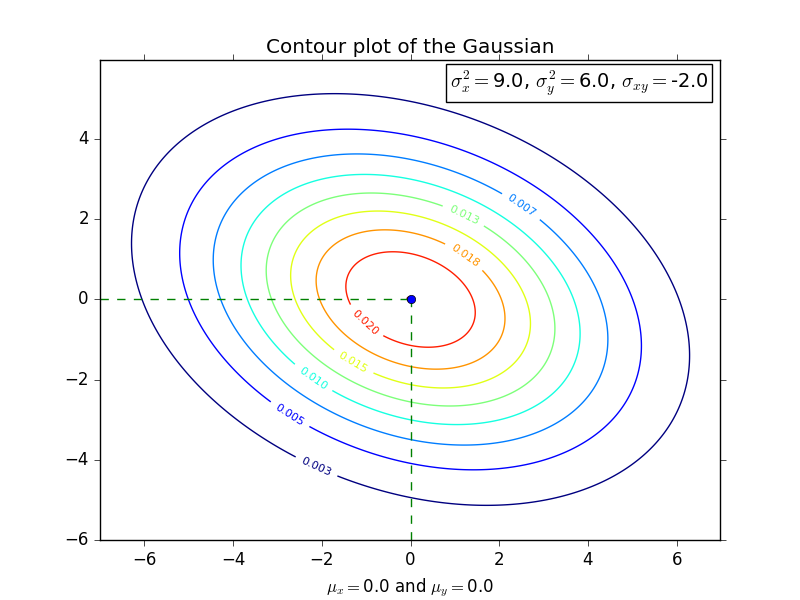
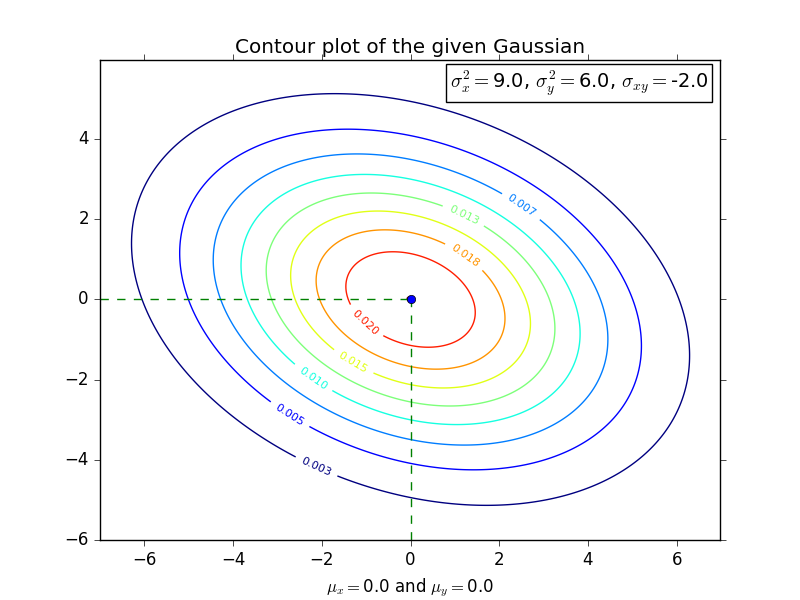
Add code for plotting z's histogram Add z's histogram Update ghist2D.png to be consistent with the data on ghist1D.png Update README

Changed region(s): [[0.2812, 0.06, 0.75, 0.09]]

diff --git a/gaussw2.py b/gaussw2.py
@@ -29,13 +29,13 @@ delta = 0.025
 x = np.arange(-7, 7, delta)
 y = np.arange(-6.0, 6.0, delta)
 #normal function takes only lists as input, so convert tuple to list
-X, Y = np.meshgrid(x, y)
-Z = mlab.bivariate_normal(X, Y, sigma_x, sigma_y, mu_x, mu_y, sigma_xy)
+X0, Y0 = np.meshgrid(x, y)
+Z0 = mlab.bivariate_normal(X0, Y0, sigma_x, sigma_y, mu_x, mu_y, sigma_xy)
 
 plt.figure(1)
 #Number of levels of a Contour
 N = 10
-cont = plt.contour(X, Y, Z, N)
+cont = plt.contour(X0, Y0, Z0, N)
 plt.clabel(cont, inline = 5, fontsize = 8)
 plt.title('Contour plot of the given Gaussian')
 plt.plot(mu_x, mu_y, 'bo')
@@ -48,19 +48,44 @@ plt.xlabel(r"$\mu_x =$"+str(mu_x)+" and "+r"$\mu_y =$"+str(mu_y))
 bbox_props1 =  dict(boxstyle = "square, pad=0.2", fc = "w", ec = 'k', lw = 1)
 plt.text(3.8, 5.4, r"$\sigma^2_x=$"+str(sigma_sqr_x)+", "+r"$\sigma^2_y =$"+str(sigma_sqr_y)+", "+r"$\sigma_{xy} =$"+str(sigma_xy), ha="center", va="center", size = 14, bbox = bbox_props1)
 
-plt.figure(2)
 #2D random number generator
-X = []
-Y = []
+plt.figure(2)
+X1 = []
+Y1 = []
 num_of_pts = 50000
 for i in range(num_of_pts):
+    #use Numpy's multivariate_normal function
     x = np.random.multivariate_normal([0, 0], [[9, -2],[-2, 6]])
-    X.append(5*x[0])
-    Y.append(5*x[1])
-num_of_bins = 250
-plt.hist2d(X, Y, num_of_bins,cmap='inferno')
+    X1.append(x[0])
+    Y1.append(x[1])
+#X, Y contain the X and Y co-ordinates of the randomly generated points.
+num_of_bins2D = 250
+#plot the 2D histogram with colour scheme inferno
+plt.hist2d(X1, Y1, num_of_bins2D,cmap='inferno')
 plt.colorbar()
 plt.title('2D Histogram of Gaussian distributed random numbers')
 bbox_props2 = dict(boxstyle = "square, pad=0.2", fc="w", ec="b", lw = 1)
-plt.text(0,45,"No. of bins: "+r"$n_x$"+"= "+r"$n_y$"+"="+str(num_of_bins)+"; Number of points = "+str(num_of_pts), ha="center", va="center", size = 12, bbox = bbox_props2)
+plt.text(0,45,"No. of bins: "+r"$n_x$"+"= "+r"$n_y$"+"="+str(num_of_bins2D)+"; Number of points = "+str(num_of_pts), ha="center", va="center", size = 12, bbox = bbox_props2)
+
+#Construct and Plot Z
+Z1 =[]
+#For calculating the mean value and standard deviation
+Z_sum = 0.0
+Z_sqr_sum = 0.0
+for i in range(num_of_pts):
+    Z1.append((1/50.0)*(6*(X1[i]**2)+4*X1[i]*Y1[i]+9*(Y1[i]**2)))
+    Z_sum = Z_sum + Z1[i]
+    Z_sqr_sum = Z_sqr_sum + (Z1[i]**2)
+mean_Z = Z_sum/num_of_pts
+std_dev_Z = math.sqrt((Z_sqr_sum/num_of_pts)-(mean_Z**2))
+plt.figure(3)
+num_of_bins1D = 50
+#Plot the histogram
+plt.hist(Z1, num_of_bins1D, color = 'g')
+plt.title("Histogram of "+r"$z=\frac{6x^2+4xy+9y^2}{50}$", size ='large')
+plt.xlabel('No. of bins = '+str(num_of_bins1D))
+plt.ylabel('Frequency')
+#Mean and Standard deviation will be printed in a text box
+bbox_props3 = dict(boxstyle = "square, pad=0.3", fc="w", ec="k", lw = 1)
+plt.text(14,11000,r"$\mu_z=$"+str(mean_Z)+", "+r"$\sigma_z=$"+str(std_dev_Z), ha="center", va="center", size = 14, bbox = bbox_props3)
 plt.show()

diff --git a/README.md b/README.md
@@ -1,4 +1,4 @@
 # Data-Analysis-Assignment
 This repository contains code for the EP 219 Fall 2016 Assignment.
 Week 1:  Code for plots of Gaussian, Binomial and Poisson distributions and for the estimation of pi using Monte Carlo Method have been added as part of the master branch.
-Week 2: Code and Image for 2D Gaussian Contour added as part of the week2 branch. Code and Image for 2D Histogram plotted using random variables drawn from the given Gaussian have been added to existing gaussw2.py and as ghist2D.png respectively.
+Week 2: Codes and figures of problem 1 of the assignment can be found in the week2 branch. Topics: Contours of a bivariate_gaussian, 2D Histogram of Gaussian distributed random variables and the Histogram of a function of these variables. The plots are present in gcontour.png, ghist2D.png and ghist1D.png and the code is present in gaussw2.py 
